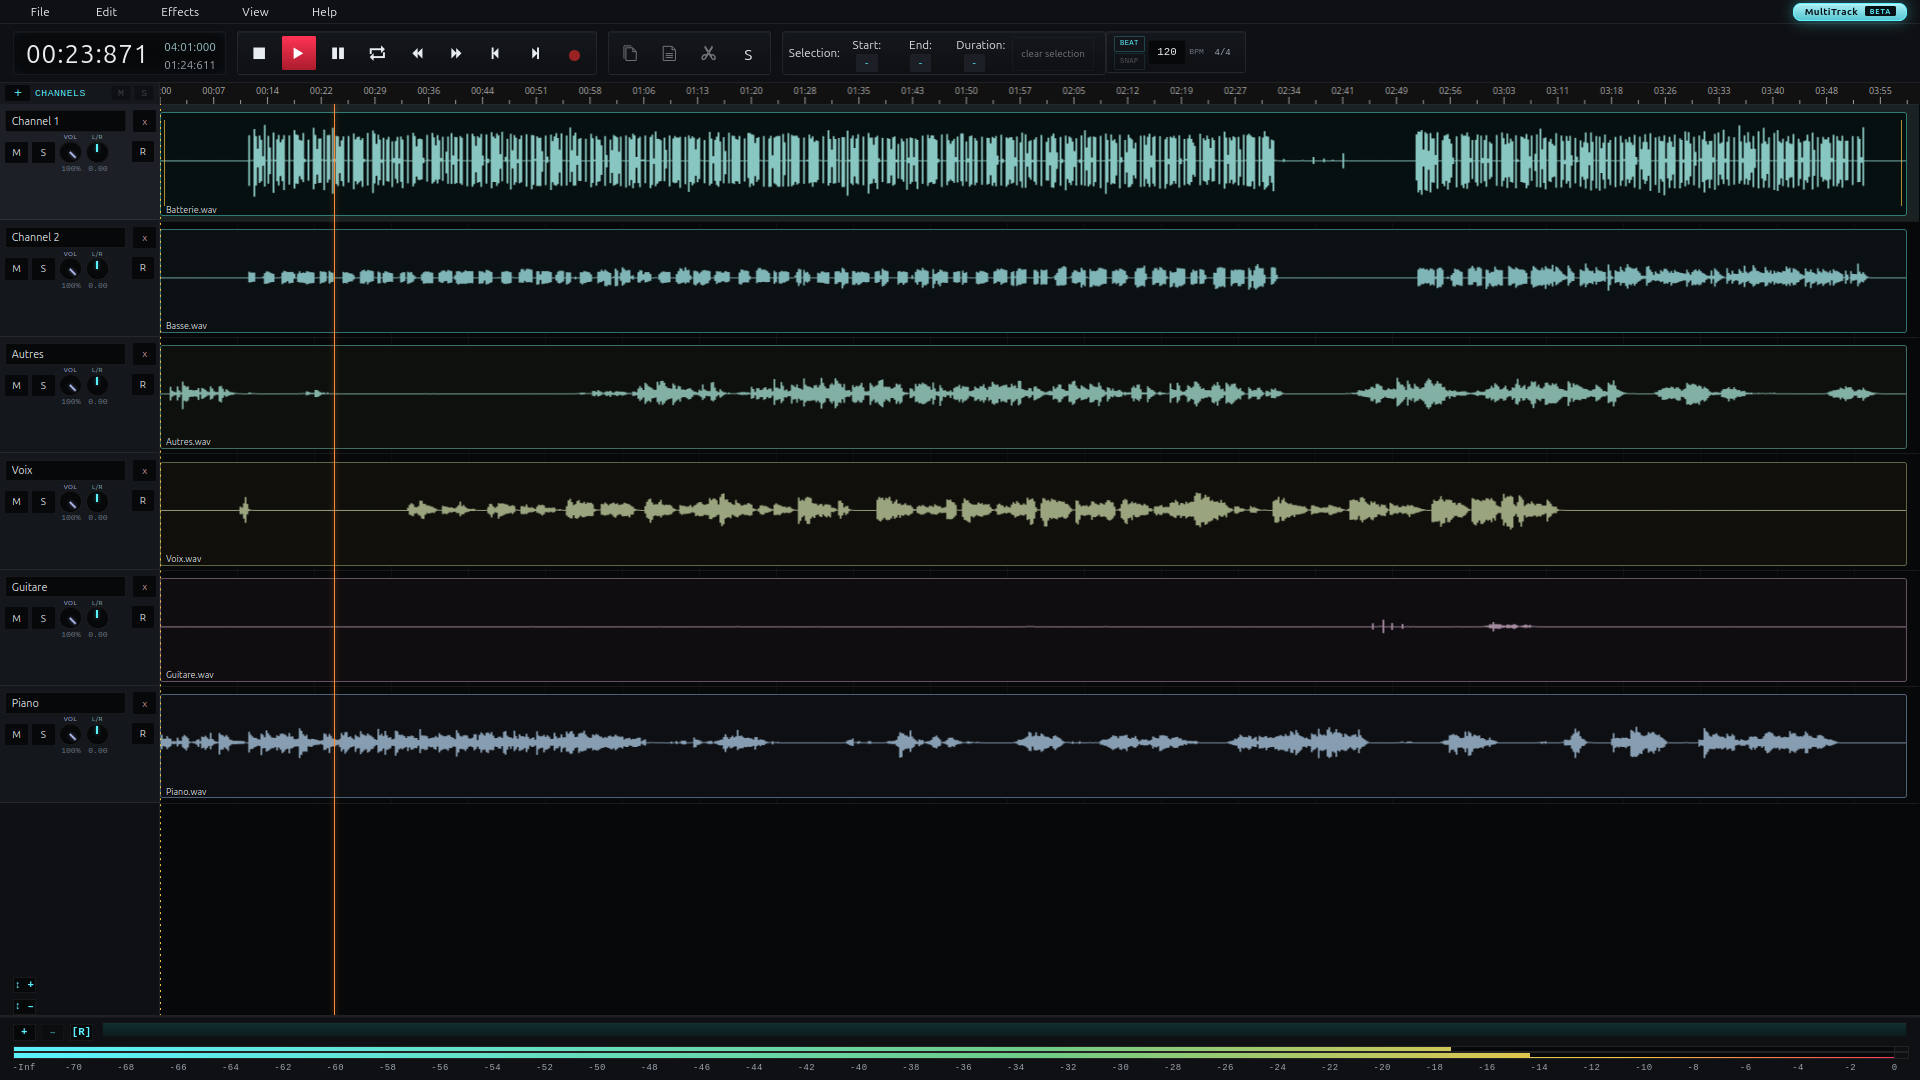
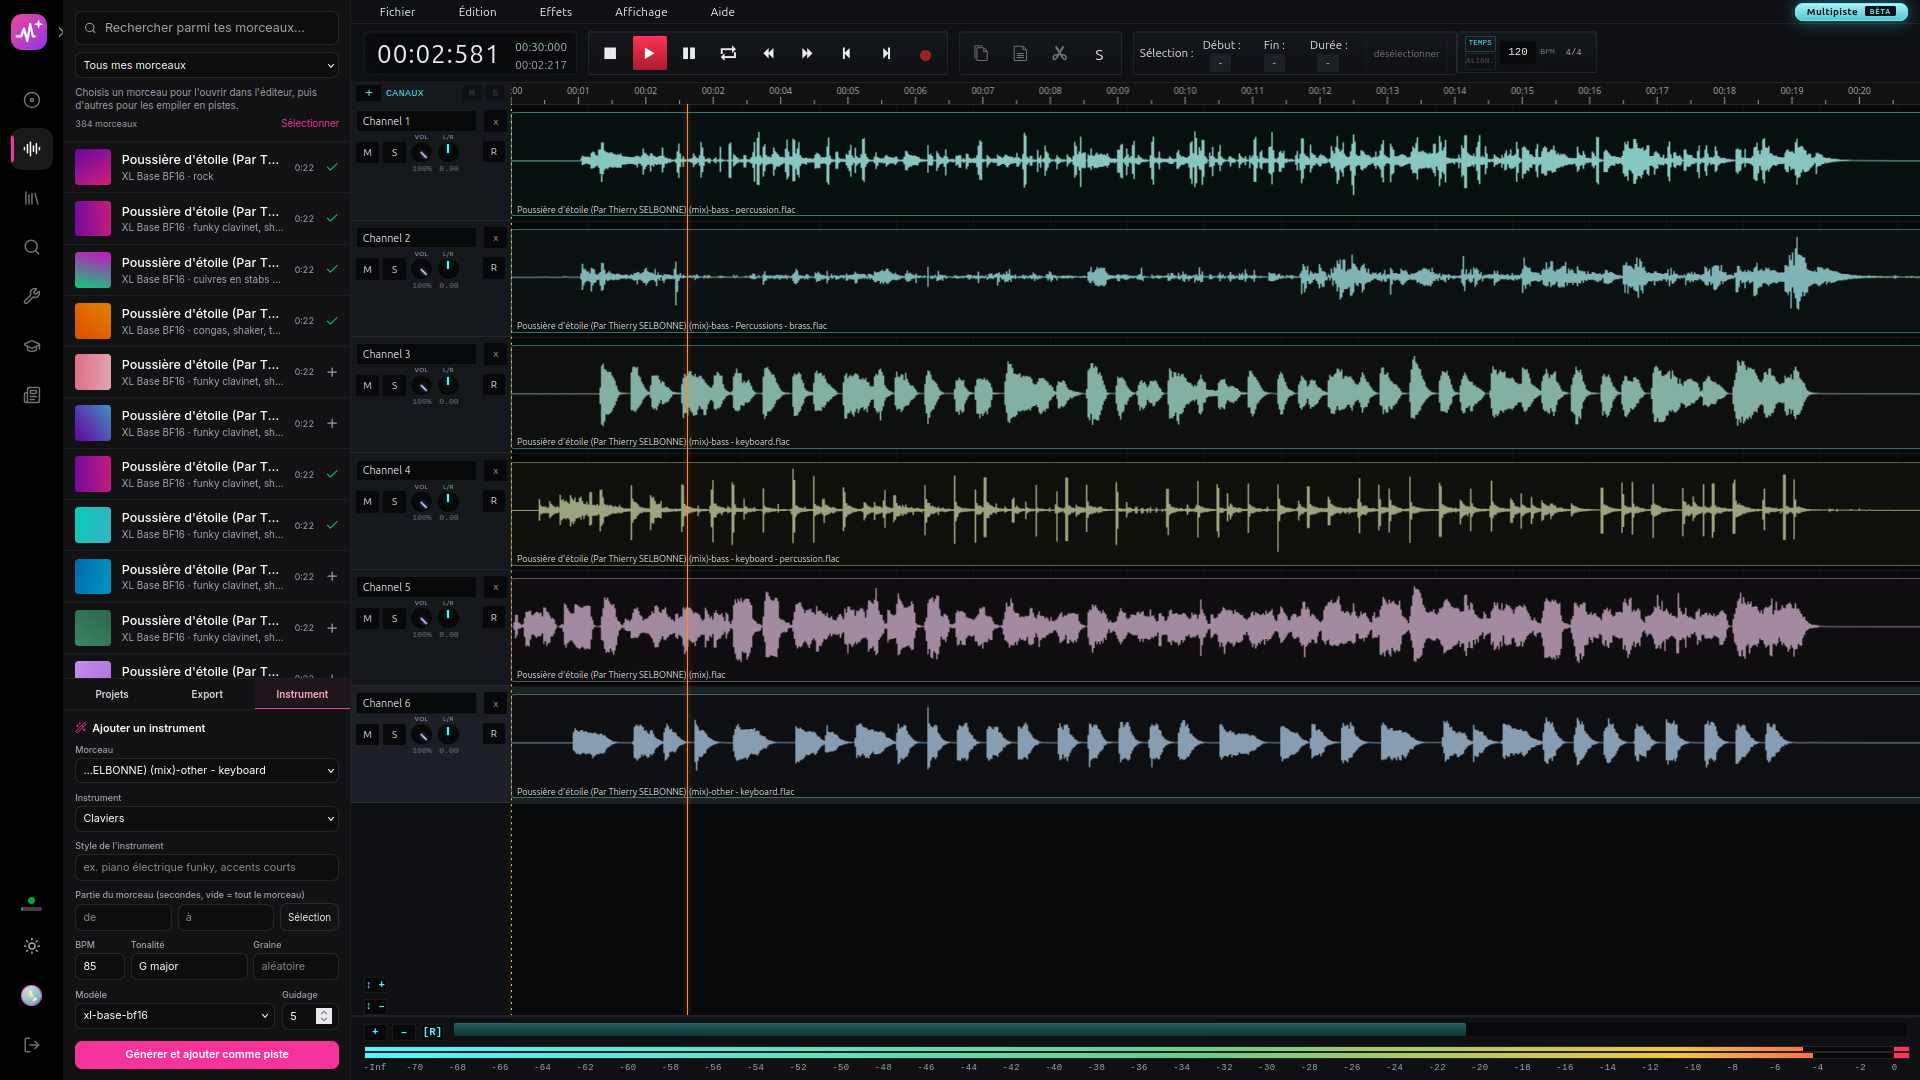
README : capture de l'editeur multipiste (onglet Studio) et legende
Claude-Session: https://claude.ai/code/session_01B5iPA9vTox3QMnqfEgR6vu

diff --git a/CHANGELOG.md b/CHANGELOG.md
@@ -62,6 +62,7 @@
 - Studio: new "Export the mix to the library" block under the song list. It mixes the editor timeline as it sounds (volumes, pans, mutes, solos), or only the selected range, and saves it as a new song of the library (WAV, tagged `studio`, `mix`; title optional, dated by default). The editor's own File > Export only downloads a file to the browser.
 - Studio: new "Projects" block. The editor session (tracks, clips, volumes, pans, fades, markers, tempo) is saved on the server for the signed-in user (`app/server/data/studio-projects/`, not versioned) and can be reopened, replaced or deleted from the Studio tab, instead of the editor's own "save session" that only downloads a file. New route `/api/studio-projects`. Also: two files added to the editor in quick succession no longer land on the same empty channel (the second renamed the first).
 - Studio: the three blocks under the song list (Projects, Export, Instrument) are now tabs, folded by default, so the song list keeps the room (it was squeezed to one or two rows). A click opens a block, a second click folds it; each block stays alive while folded (typed text, running generation), the tab shows the open project and a dot while a job runs, and the open tab is remembered.
+- README: the multitrack editor screenshot now shows the Studio tab (song list, projects / export / instrument tabs), and its caption says so.
 
 ## 2026-10-21
 

diff --git a/README.md b/README.md
@@ -62,7 +62,7 @@ Both platforms share the same underlying approach: a single [`uv`](https://githu
 </p>
 
 <p align="center">
-  <em>All six Demucs stems, opened together as separate tracks in the AudioMass editor.</em>
+  <em>All six Demucs stems, opened together as separate tracks in the AudioMass editor (Studio tab).</em>
 </p>
 
 ### Stems, MIDI, mastering and loudness
